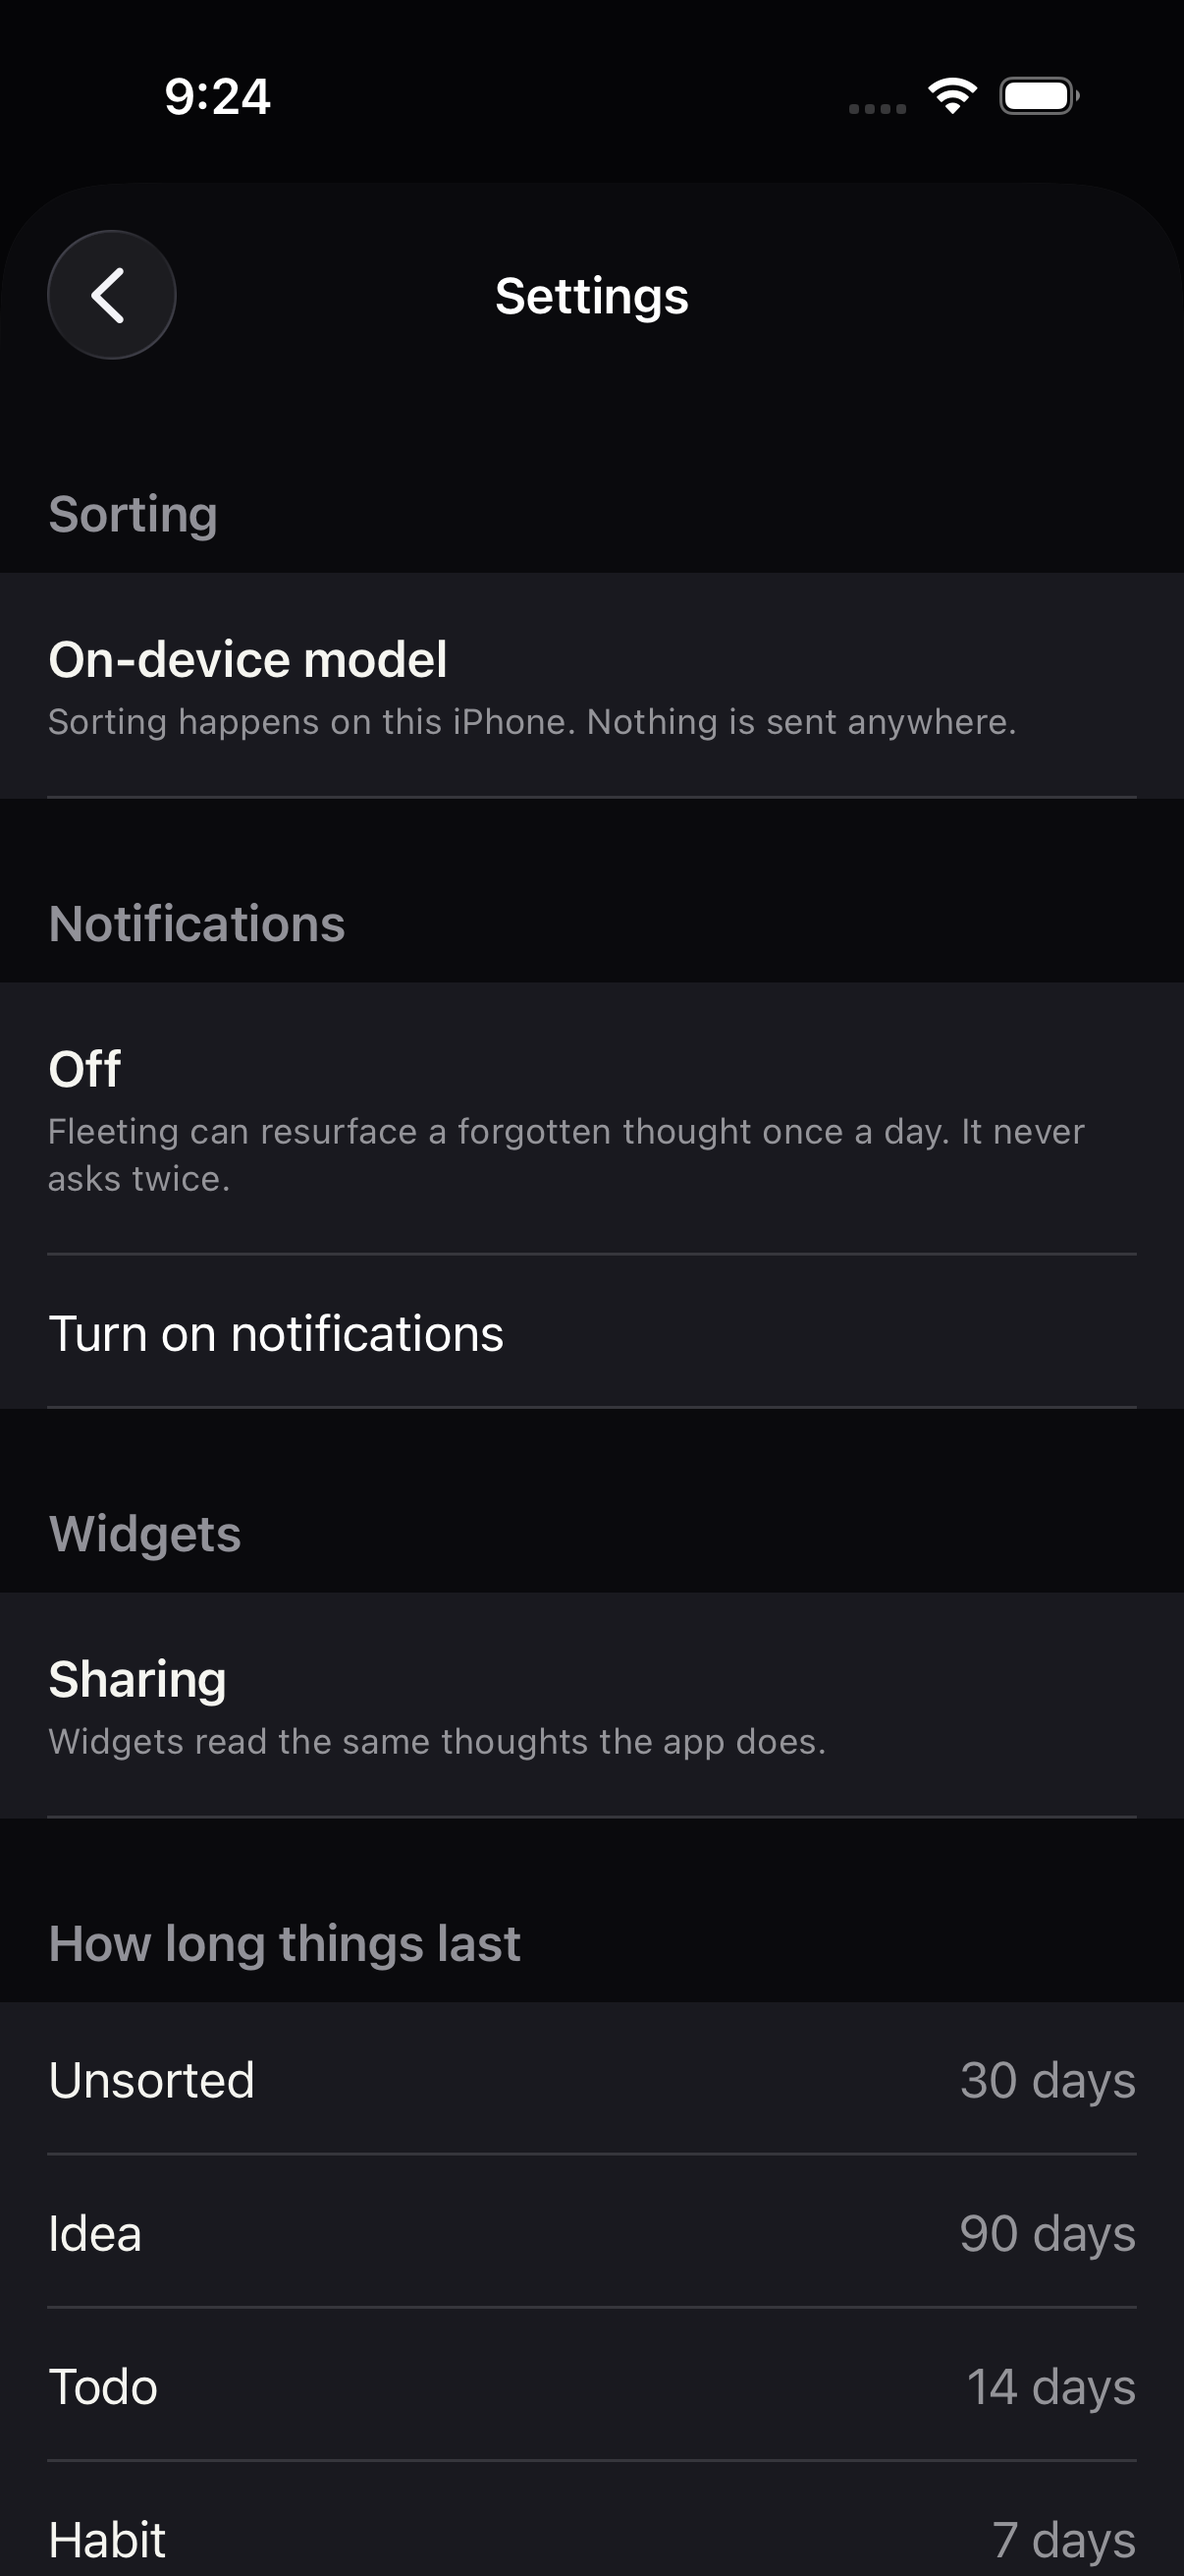
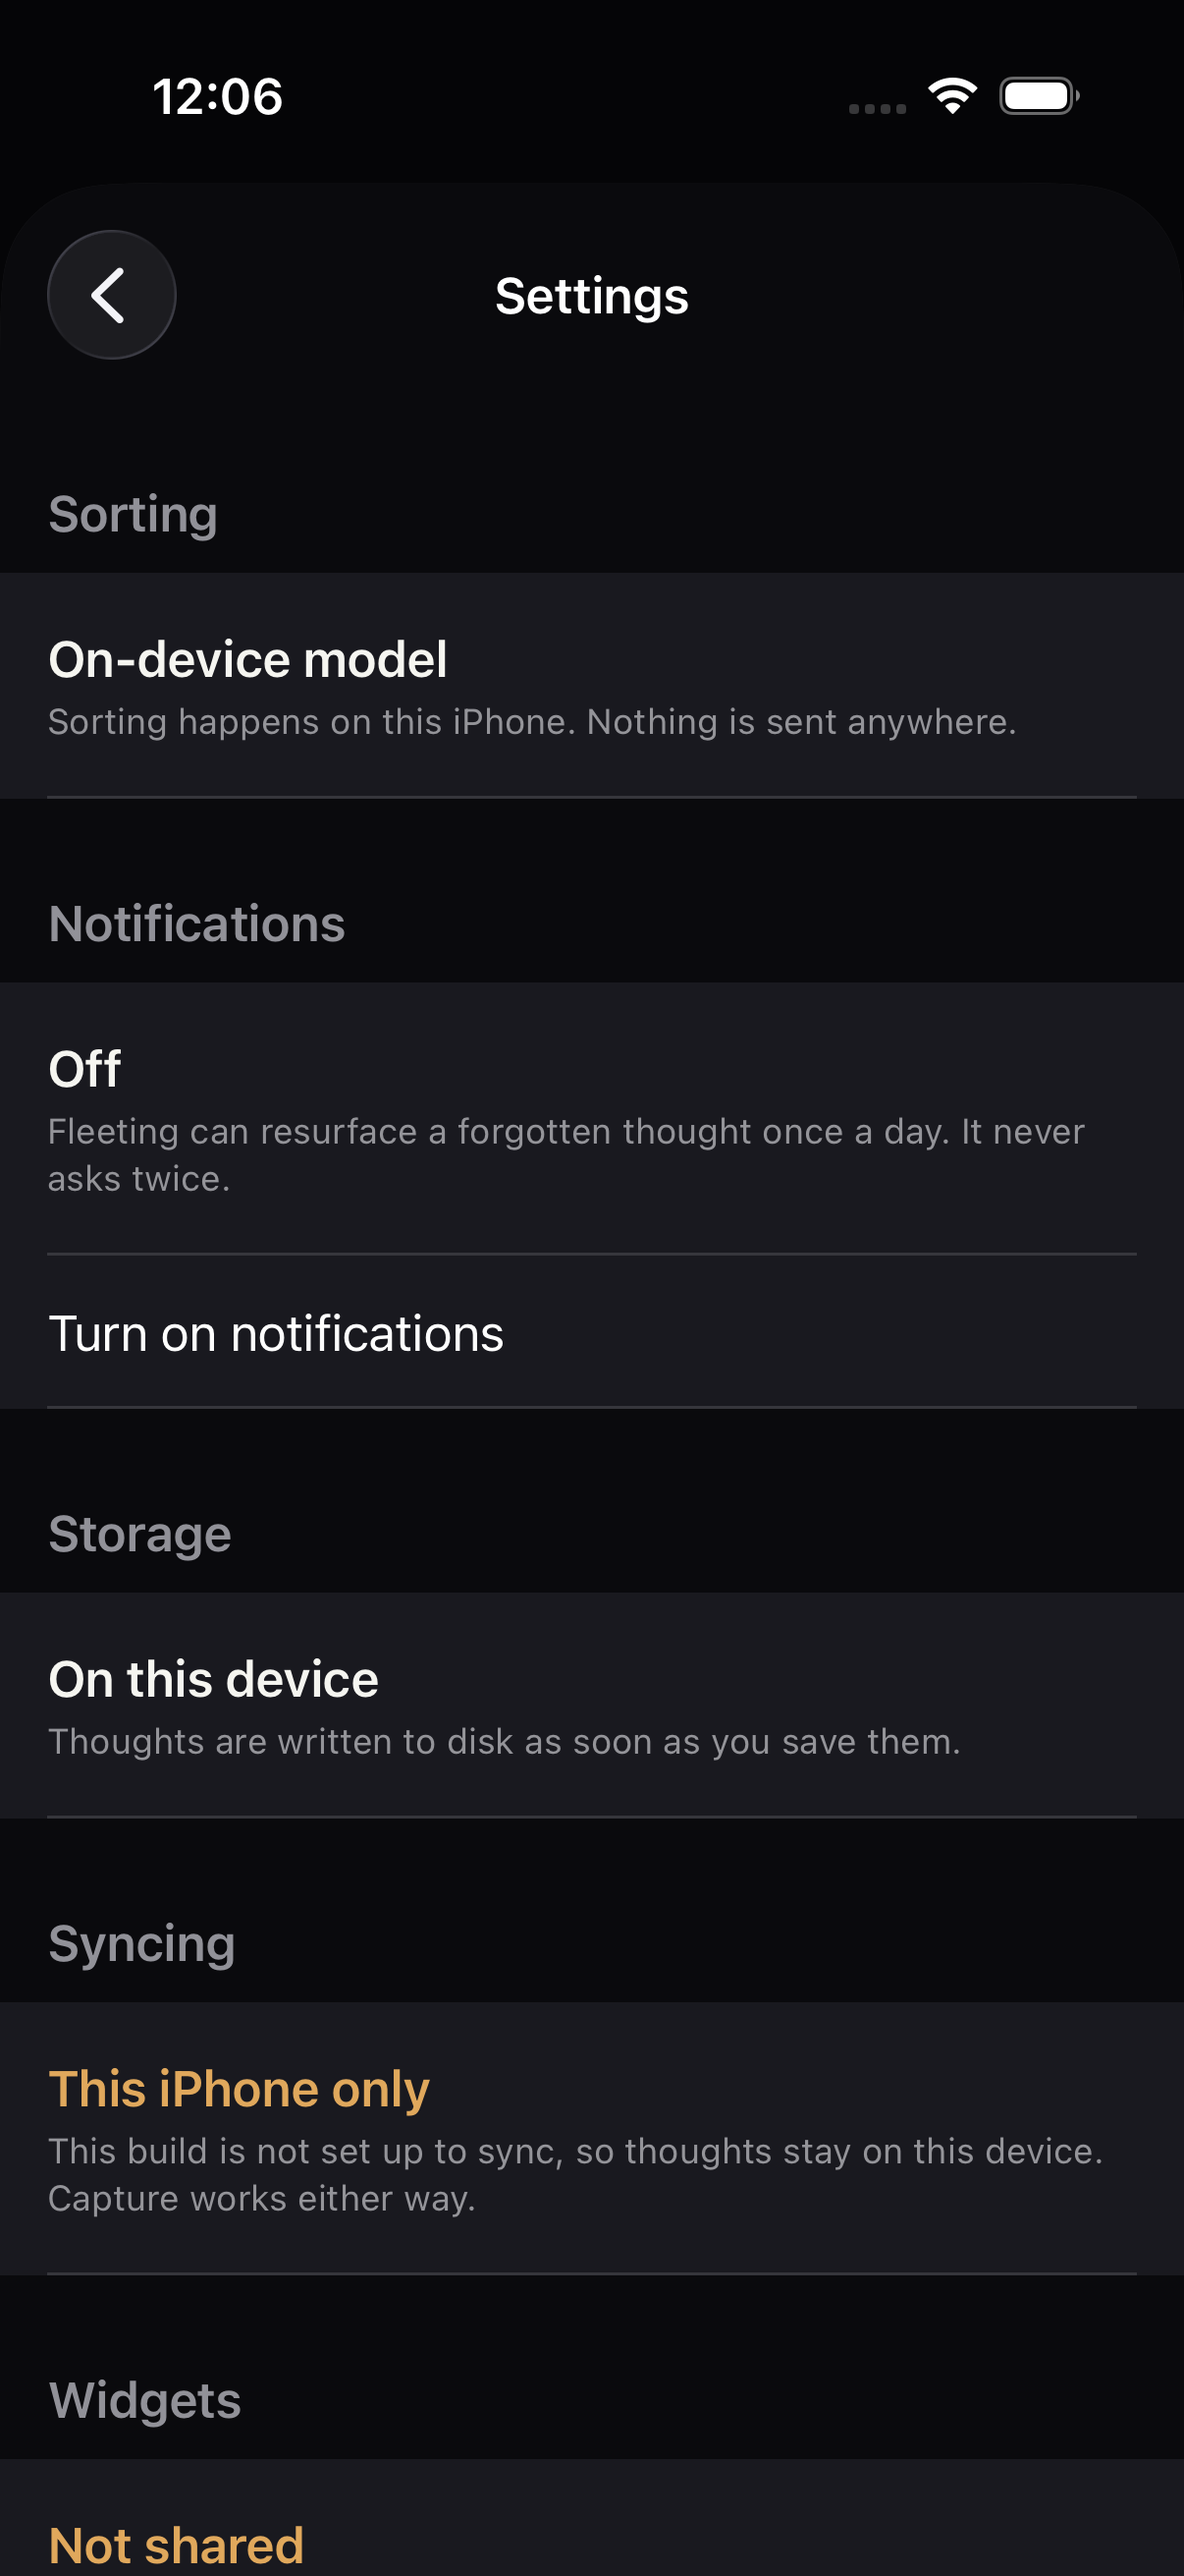
Regenerate the screenshots, and fix the test that had stopped taking them
`ScreenshotTests` waited for "call the dentist back", which the demo seed had
not contained for several phases. Nothing asserted it, so the wait silently
timed out and the test shot whatever happened to be on screen. It now waits
for a thought that exists, and there is a capture screenshot too, since that
screen changed and its image was the oldest in the repo.

All five images are regenerated against the current build, so the README
shows the gentler fade, the adaptive palette, the first-run line and the
Storage and Syncing sections. Alt text updated to match what is actually in
them.

CI runs the DesignSystem tests, which is where the contrast audit lives.

diff --git a/Tests/UITests/ScreenshotTests.swift b/Tests/UITests/ScreenshotTests.swift
@@ -6,6 +6,21 @@ import XCTest
 /// working. Attachments are extracted from the result bundle with `xcresulttool`.
 @MainActor
 final class ScreenshotTests: XCTestCase {
+    func testCaptureCaptureScreenshot() {
+        let app = XCUIApplication()
+        app.launchArguments = ["--reset-store"]
+        app.launch()
+
+        _ = app.descendants(matching: .any)["capture.field"].waitForExistence(timeout: 10)
+        _ = app.descendants(matching: .any)["capture.hint"].waitForExistence(timeout: 5)
+        Thread.sleep(forTimeInterval: 1)
+
+        let shot = XCTAttachment(screenshot: XCUIScreen.main.screenshot())
+        shot.name = "capture"
+        shot.lifetime = .keepAlways
+        add(shot)
+    }
+
     func testCaptureInboxScreenshot() {
         let app = XCUIApplication()
         app.launchArguments = ["--reset-store", "--seed-demo"]
@@ -13,7 +28,7 @@ final class ScreenshotTests: XCTestCase {
 
         _ = app.descendants(matching: .any)["capture.field"].waitForExistence(timeout: 10)
         app.buttons["capture.browse"].tap()
-        _ = app.staticTexts["call the dentist back"].waitForExistence(timeout: 10)
+        _ = app.staticTexts["pay the parking fine"].waitForExistence(timeout: 10)
         Thread.sleep(forTimeInterval: 2)
 
         let shot = XCTAttachment(screenshot: XCUIScreen.main.screenshot())
